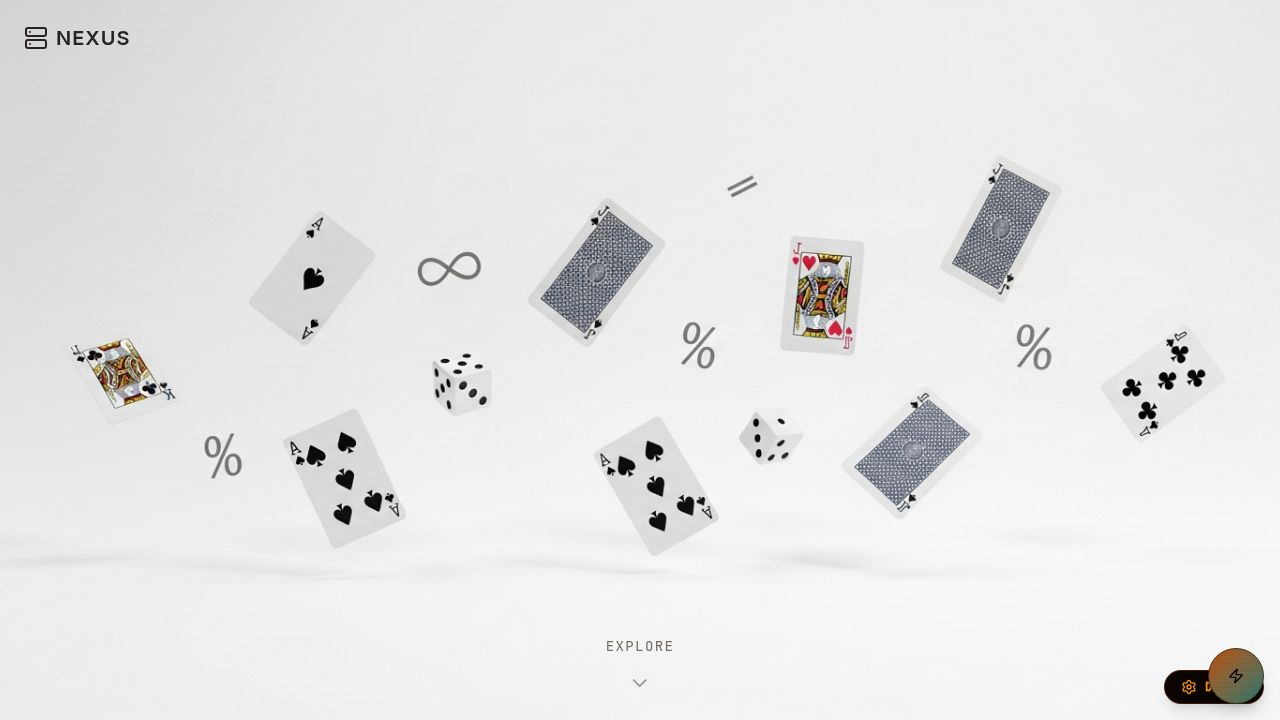
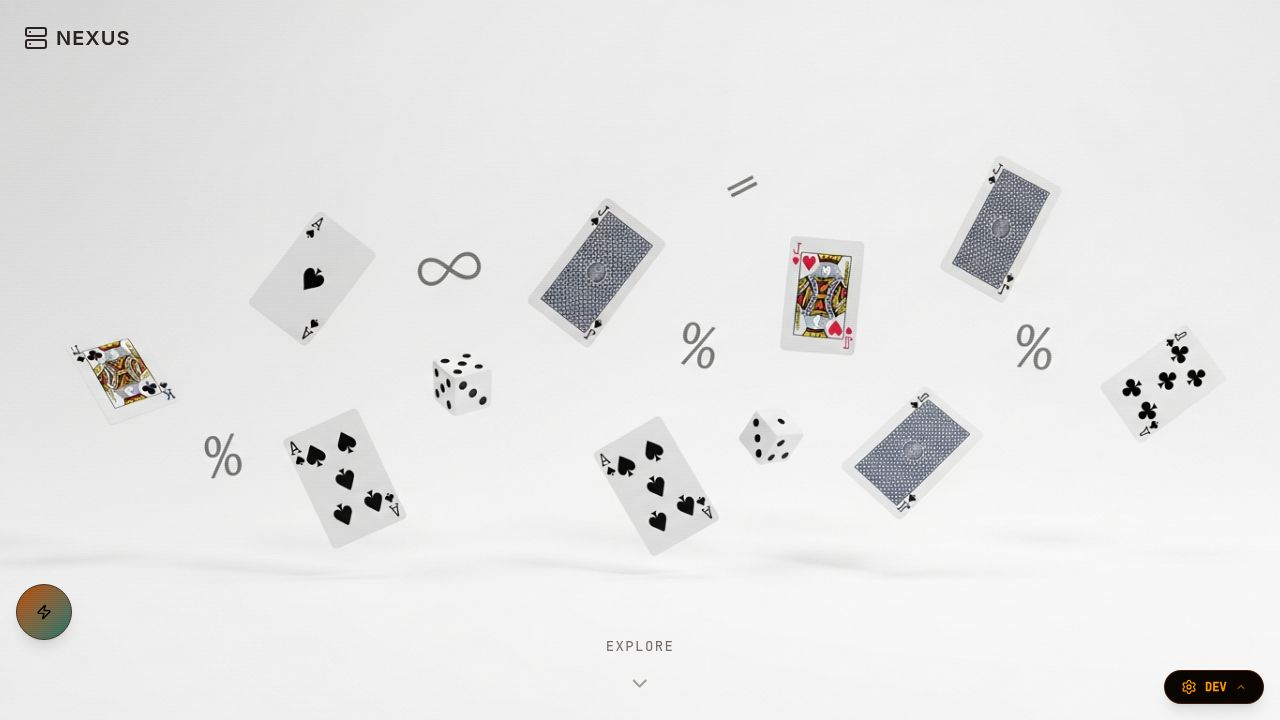
Hide probability field indicator on smaller screens
Hide the QuantumField component and its associated meter popup on mobile devices by applying the `hidden md:block` Tailwind CSS class, preventing UI overlaps and improving the mobile layout.

Replit-Commit-Author: Agent
Replit-Commit-Session-Id: 1c795747-8480-45e6-ab24-3d5a00289448
Replit-Commit-Checkpoint-Type: intermediate_checkpoint
Replit-Commit-Event-Id: 33a51891-231a-4310-8367-11d5d3c43d9f
Replit-Commit-Screenshot-Url: https://storage.googleapis.com/screenshot-production-us-central1/1ab9949c-4af8-4153-be70-4226fa1eb6e6/1c795747-8480-45e6-ab24-3d5a00289448/to8kYij
Replit-Helium-Checkpoint-Created: true

Changed region(s): [[0.9375, 0.8861, 1.0, 0.9778], [0.0, 0.7944, 0.0625, 0.8861]]

diff --git a/client/src/components/QuantumField.tsx b/client/src/components/QuantumField.tsx
@@ -160,9 +160,9 @@ export const QuantumField = () => {
 
   return (
     <>
-      {/* Probability Field Indicator - Subtle corner element */}
+      {/* Probability Field Indicator - Subtle corner element (hidden on mobile) */}
       <div 
-        className="fixed bottom-4 left-20 z-40 cursor-pointer group"
+        className="hidden md:block fixed bottom-4 left-20 z-40 cursor-pointer group"
         onClick={() => setShowMeter(!showMeter)}
         data-testid="quantum-indicator"
       >
@@ -214,7 +214,7 @@ export const QuantumField = () => {
             initial={{ opacity: 0, x: -20 }}
             animate={{ opacity: 1, x: 0 }}
             exit={{ opacity: 0, x: -20 }}
-            className="fixed bottom-16 left-20 z-40 w-64 bg-[#0a0500]/95 border border-amber-900/50 rounded-lg p-4 backdrop-blur-md"
+            className="hidden md:block fixed bottom-16 left-20 z-40 w-64 bg-[#0a0500]/95 border border-amber-900/50 rounded-lg p-4 backdrop-blur-md"
           >
             <h3 className="text-amber-600 font-orbitron text-sm mb-3 flex items-center gap-2">
               <span className="text-purple-500">Ψ</span> QUANTUM STATE
